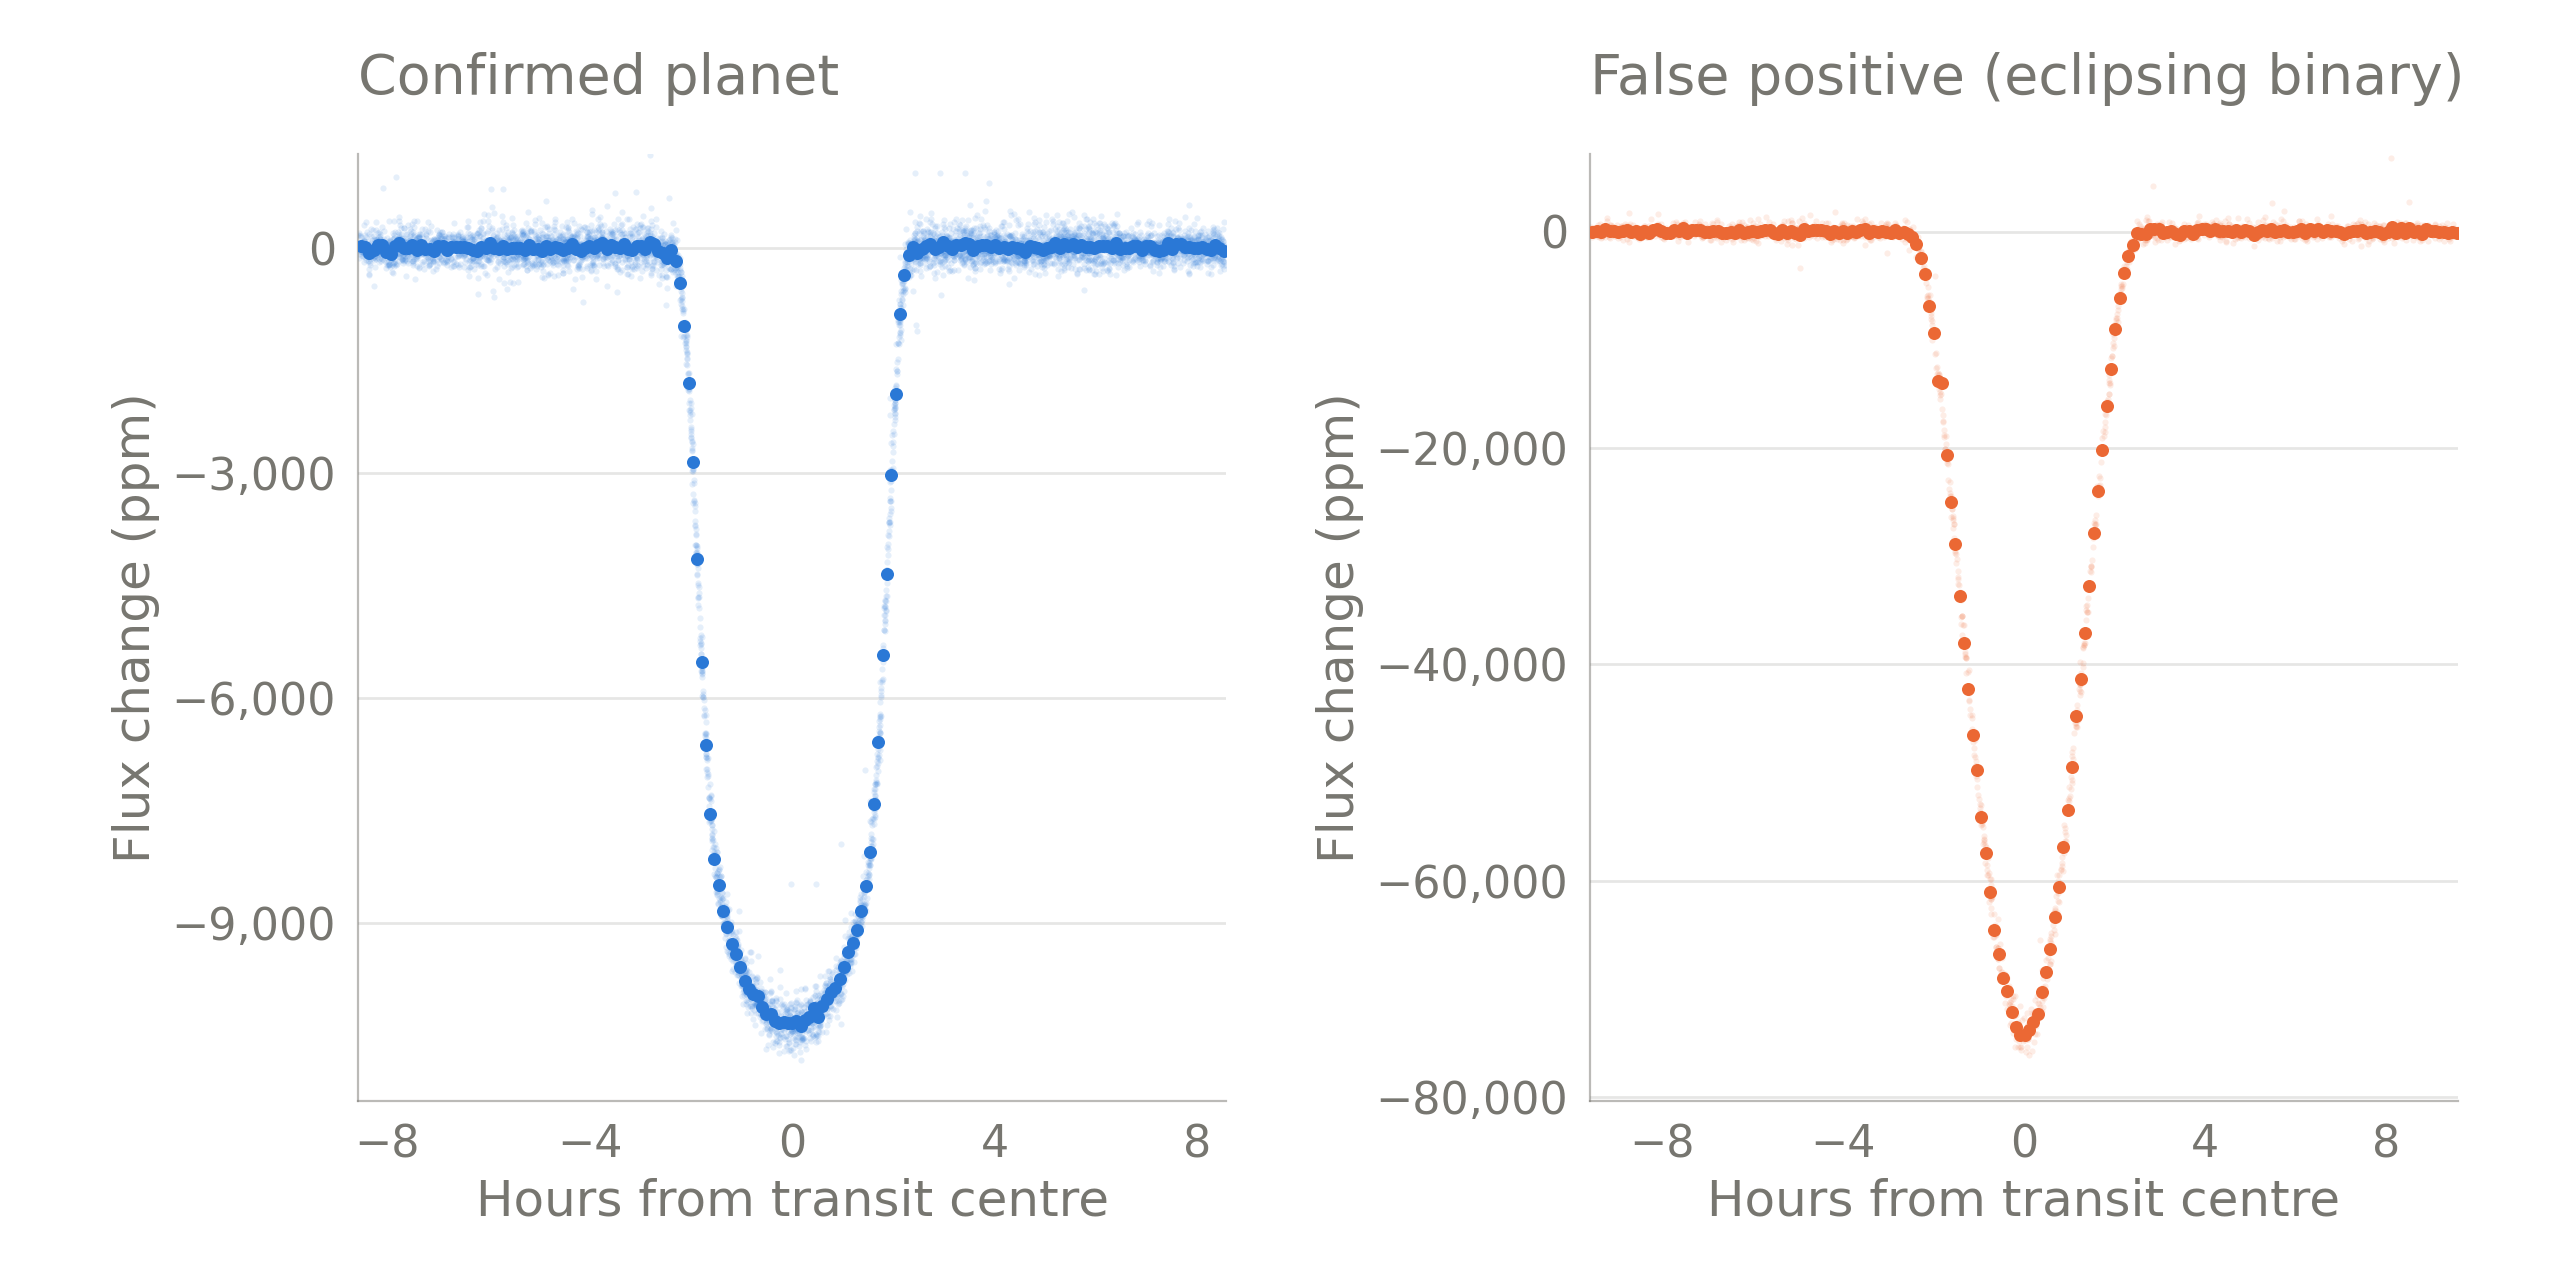
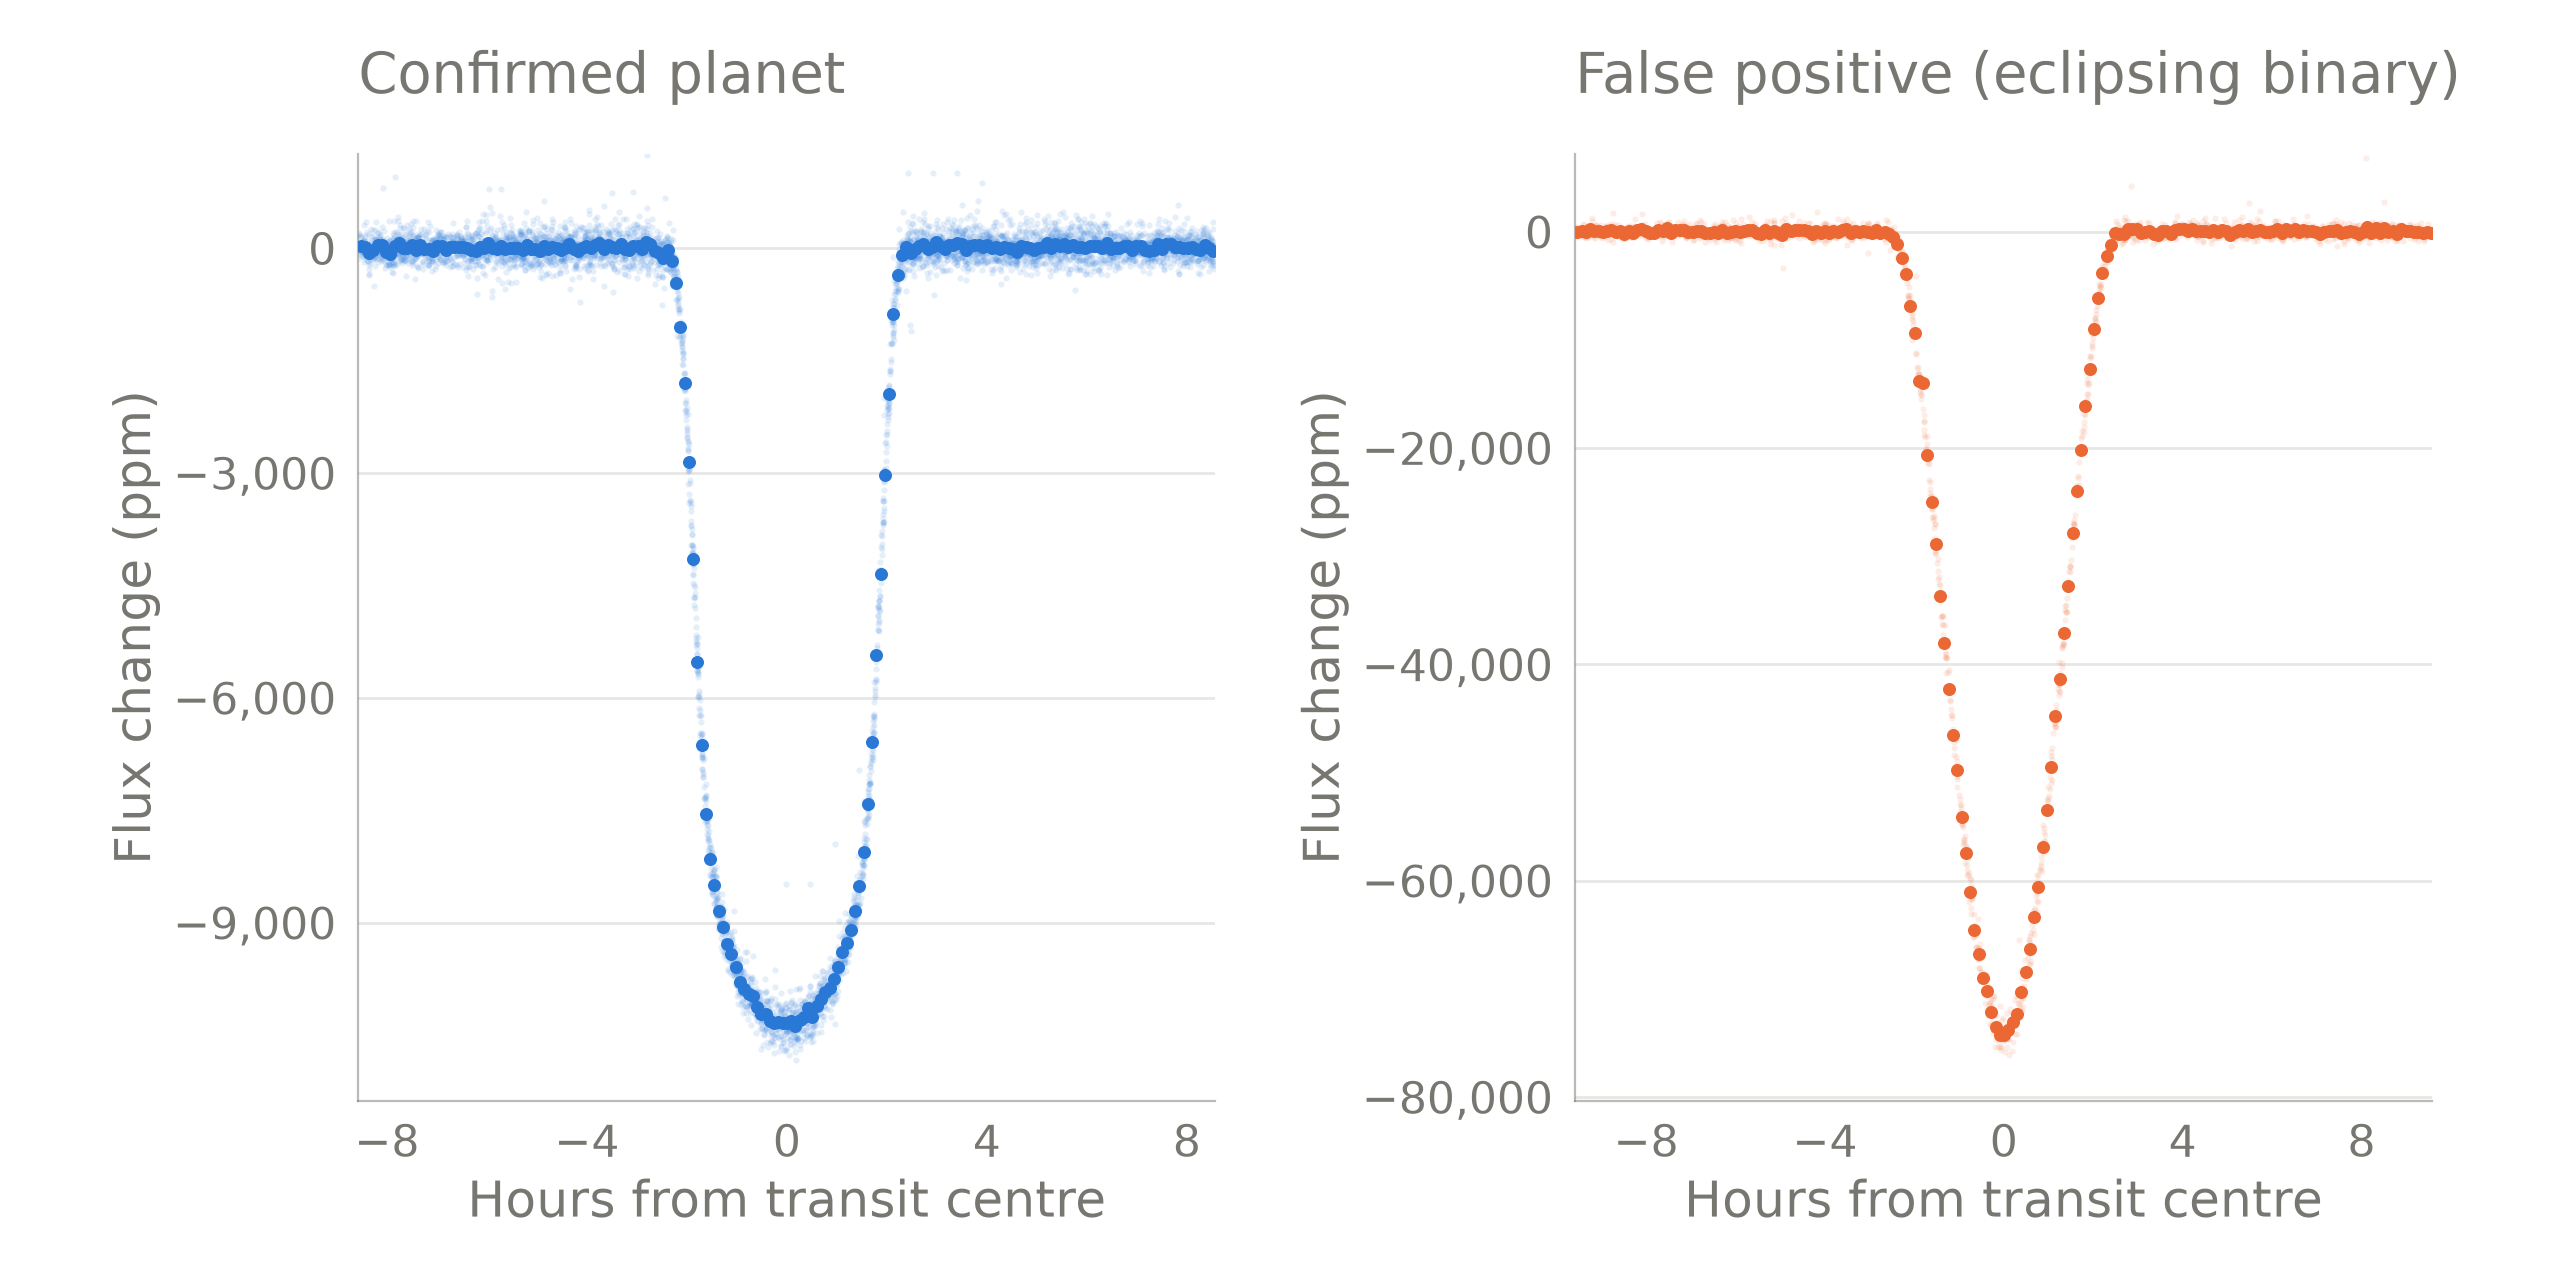
Add requirements.txt, fix stale roadmap numbers, regenerate plots under Python 3.14

diff --git a/scripts/make_preview_plot.py b/scripts/make_preview_plot.py
@@ -289,7 +289,7 @@ def make_full_figure(views):
     # and break the exact 2560 x 1280 size.
     # The gap between panels has to hold the right panel's tick labels ("-80,000")
     # and its rotated axis label, hence the wide wspace.
-    fig.subplots_adjust(left=0.14, right=0.96, bottom=0.14, top=0.88, wspace=0.42)
+    fig.subplots_adjust(left=0.14, right=0.95, bottom=0.14, top=0.88, wspace=0.42)
 
     for ax, panel, view in zip(axes, PANELS, views):
         low, high = draw_points(ax, view, panel['colour'])

diff --git a/TransitCheck_Roadmap.md b/TransitCheck_Roadmap.md
@@ -1,15 +1,20 @@
 # TransitCheck — Roadmap & Status
 
-*Updated after training on the 2,000-star dataset.*
+*Updated after restricting the model to six light-curve features (CLAUDE.md §11).*
 
 ## You are here: Phase 3 core complete.
 
 You have a trained, honestly-evaluated model. What remains in Phase 3 is
 communicating the result, not improving it.
 
-**Final result:** 0.88 recall, 0.66 precision on CONFIRMED planets, threshold
-0.25, on a star-grouped held-out test set of 434 rows.
-117 of 133 real planets found · 16 missed · 61 false alarms.
+**Final result (six light-curve features):** 0.80 recall, 0.58 precision on
+CONFIRMED planets, threshold 0.25, on a star-grouped held-out test set of 434 rows.
+106 of 133 real planets found · 27 missed · 78 false alarms · ROC AUC 0.856.
+Reproduced from the saved model on 2026-10-01 under Python 3.14 / scikit-learn 1.9.0.
+
+*(The previous figures here -- 0.88 recall, 0.66 precision, 117 of 133 found -- came
+from the seven-feature model that included `duration_over_period`, a catalogue
+quantity. See §11 of CLAUDE.md for why it was removed.)*
 
 ---
 
@@ -40,7 +45,9 @@ communicating the result, not improving it.
 - [x] Threshold chosen on a validation split, not on test
 - [x] Precision/recall reported, not accuracy
 - [x] Permutation importances computed on the test set
-- [x] **Catalogue-only baseline run** — geometry alone scores 0.63 accuracy (base rate 0.64); the light-curve pipeline carries the performance
+- [x] ~~**Catalogue-only baseline run** — geometry alone scores 0.63 accuracy (base rate 0.64); the light-curve pipeline carries the performance~~ — **wrong**: that baseline was one column, a subset of the model it was compared against (CLAUDE.md §11.6)
+- [x] **Feature-set ablation** over 25 star-grouped splits: light-curve only 0.7825, catalogue only (2 columns) 0.7748 — statistically indistinguishable; together 0.8959
+- [x] Model restricted to the six light-curve features, so the comparison above is genuine
 - [x] Model and notebook saved
 - [ ] Benchmark against Planet Hunters TESS's published precision/recall
 - [ ] Document methodology and limitations
@@ -52,20 +59,24 @@ communicating the result, not improving it.
 | More features (`koi_impact`) | Within noise (±3 pts) |
 | Hyperparameter tuning | CV 0.8806 vs 0.8754 default — not adopted |
 
+*These were tested on the earlier seven-feature model, before `duration_over_period`
+was removed. They have not been re-run on the six-feature model.*
+
 Three independent signals that the model isn't underfit or starved. It extracts
 close to all the signal these seven features contain. Further gains would need a
 different *kind* of feature, not more of the same.
 
-### Feature importances (2,224 rows, test set)
+### Feature importances (six-feature model, test set)
 ```
-duration_over_period   +0.1248 ± 0.0138
-secondary_depth        +0.0620 ± 0.0099
-snr                    +0.0446 ± 0.0110
-depth                  +0.0225 ± 0.0099
-width                  +0.0185 ± 0.0060
-odd_even_diff          +0.0158 ± 0.0118
-asymmetry              +0.0066 ± 0.0090
+depth                  +0.0627 ± 0.0154
+secondary_depth        +0.0541 ± 0.0130
+snr                    +0.0300 ± 0.0142
+odd_even_diff          +0.0190 ± 0.0122
+width                  +0.0185 ± 0.0156
+asymmetry              +0.0043 ± 0.0129
 ```
+With `duration_over_period` gone, `depth` takes the top spot. `asymmetry` stays
+within noise of zero, consistent with the finding below.
 
 ### Findings worth reporting
 - **`asymmetry` is not measurable at Kepler noise levels.** Flat at 1,118 rows, still flat at 2,224. Relative asymmetry tracks SNR near-monotonically — it measures noise, not geometry. A real negative result.
